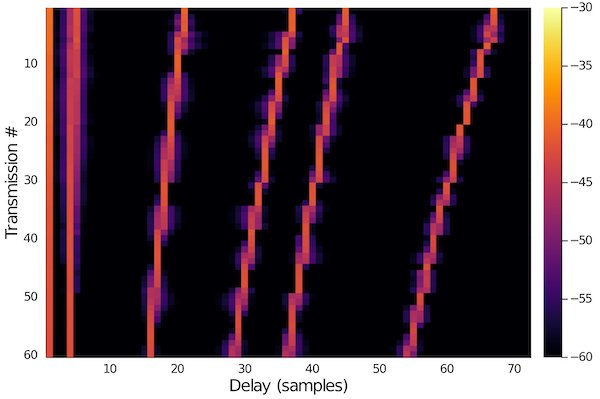
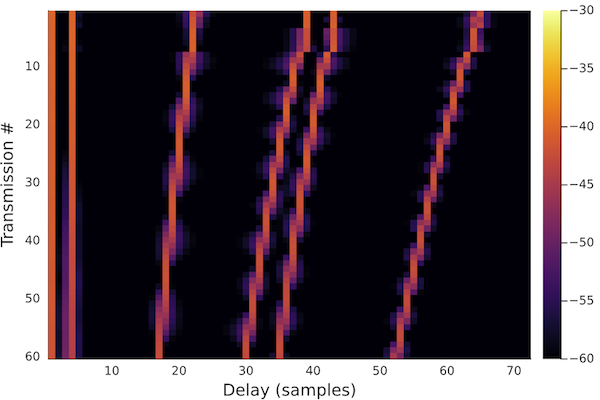
docs: improve robustness of AD tutorial

Changed region(s): [[0.0, 0.0, 0.99, 1.0]]

diff --git a/docs/src/tut_autodiff.md b/docs/src/tut_autodiff.md
@@ -2,7 +2,7 @@
 
 !!! note
 
-    This tutorial is based on the example presented in the UComms 2020 webinar talk "[Underwater Acoustics in the age of differentiable and probabilistic programming](https://www.facebook.com/watch/live/?v=2473971036238315)".
+    This tutorial is adapted from the example presented in the UComms 2020 webinar talk "[Underwater Acoustics in the age of differentiable and probabilistic programming](https://www.facebook.com/watch/live/?v=2473971036238315)".
 
 ## Problem statement
 
@@ -31,8 +31,8 @@ end
 
 data = [(
     range=100.0 + 0.5t,
-    depth=7.0 + 0.01t,
-    pilots=[𝒴([100.0 + 0.5t, 7.0 + 0.01t, f, 1.5, 1.2, 0.001]) for f ∈ 1000.0:10.0:2000.0]
+    depth=6.0 + 0.01t,
+    pilots=[𝒴([100.0 + 0.5t, 6.0 + 0.01t, f, 1.5, 1.2, 0.001]) for f ∈ 1000.0:10.0:2000.0]
   ) for t ∈ 0.0:1.0:59.0]
 data = DataFrame(vec(data))
 ```
@@ -44,7 +44,7 @@ In order to recover the drift path of the probe, we build a simple error model f
 Since our propagation model is differentiable, the gradient of the error can be automatically computed during the optimization using [`ForwardDiff.jl`](https://github.com/JuliaDiff/ForwardDiff.jl).
 
 ```julia
-using Optim
+using ForwardDiff
 
 # channel model for pilots
 pilots(r, d) = [
@@ -54,11 +54,13 @@ pilots(r, d) = [
 # gradient descent optimization
 function chparams(data)
   history = []
-  θ = [100.0, 7.0]    # known initial location
+  θ = [100.0, 6.0]    # known initial location
+  η = [1e-4, 1e-6]    # learning rate
   for row ∈ eachrow(data)
     err(θ) = sum(abs2, pilots(θ[1], θ[2]) .- row.pilots)  # error model
-    soln = optimize(err, θ, GradientDescent(), Optim.Options(iterations=10), autodiff = :forward)
-    θ = soln.minimizer
+    for i ∈ 1:100      # iterations of simple gradient descent
+      θ .-=  η .* ForwardDiff.gradient(err, θ)
+    end
     push!(history, (range=θ[1], depth=θ[2]))
   end
   DataFrame(history)
@@ -73,7 +75,7 @@ Now that we have a path estimate, let's check it against the ground truth:
 using Plots
 
 plot(data.range, -data.depth; xlabel="Range (m)", ylabel="Depth (m)", label="Ground truth")
-plot!(p.range, -p.depth; label="Estimated")
+scatter!(p.range, -p.depth; label="Estimated")
 ```
 
 ![](images/tut_autodiff_2.png)
